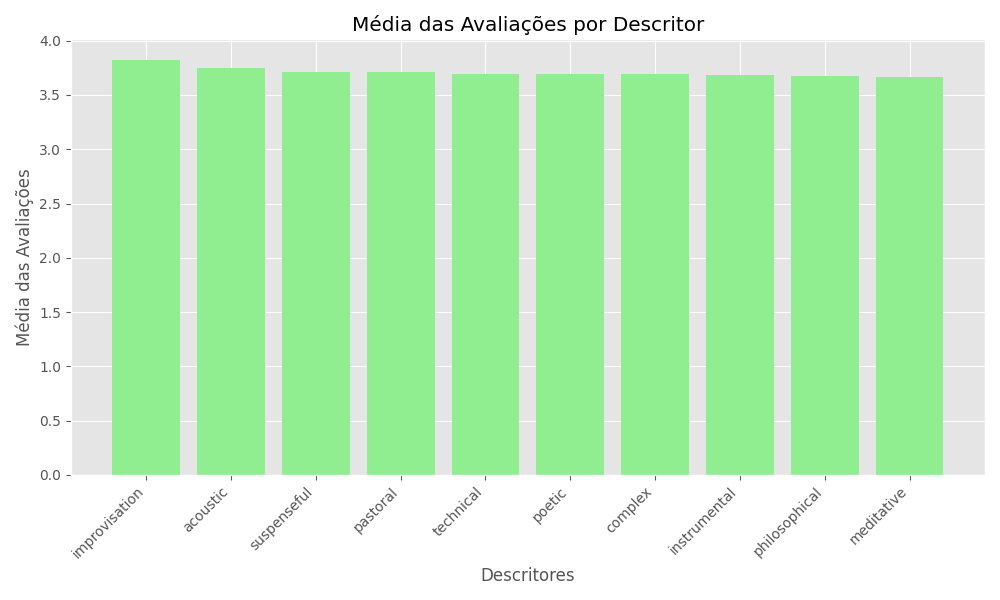
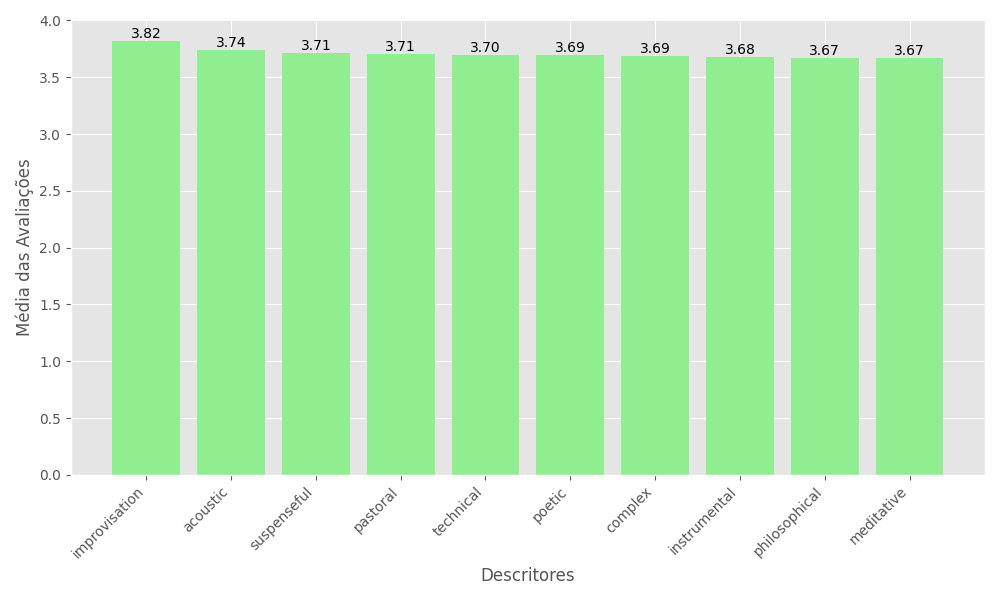
Adicionando números acima das barras nos gráficos de ralações de variáveis

diff --git a/atividade_1/src/variable_relationships.py b/atividade_1/src/variable_relationships.py
@@ -1,6 +1,9 @@
 import pandas as pd
 import matplotlib.pyplot as plt
 import numpy as np
+
+import seaborn as sns
+
 from frequency_tables import sturges_rule
 
 # Carregar o dataset
@@ -40,7 +43,6 @@ def plot_variable_relationships():
     # Gráfico 1: Média das avaliações vs. Número de resenhas
     plt.figure(figsize=(8, 6))
     plt.scatter(data['review_count'], data['avg_rating'], alpha=0.7)
-    plt.title('Média das Avaliações vs. Número de Resenhas')
     plt.xlabel('Número de Resenhas')
     plt.ylabel('Média das Avaliações')
     plt.grid(True)
@@ -52,7 +54,6 @@ def plot_variable_relationships():
     nbins = sturges_rule(len(data))
     grouped_data = group_and_average(data, 'release_date', 'avg_rating', nbins)
     grouped_data.plot(kind='line', x='Intervalo', y='Média', figsize=(10, 6), marker='o')
-    plt.title('Média das Avaliações vs. Data de Lançamento')
     plt.xlabel('Intervalos de Data de Lançamento')
     plt.ylabel('Média das Avaliações')
     plt.xticks(rotation=45, ha='right')  # Rotacionar os rótulos do eixo X
@@ -60,7 +61,7 @@ def plot_variable_relationships():
     plt.tight_layout()
     plt.savefig('outputs/Media_vs_Data.png')
 
-    # Gráfico 3: Gêneros primários vs. Média das avaliações (corrigido)
+    # Gráfico 3: Gêneros primários vs. Média das avaliações
     genre_data = data[['primary_genres', 'avg_rating']].dropna()
 
     # Separar múltiplos gêneros
@@ -86,16 +87,20 @@ def plot_variable_relationships():
 
     # Plotar
     plt.figure(figsize=(10, 6))
-    plt.bar(genre_avg['primary_genres'], genre_avg['avg_rating'], color='skyblue')
-    plt.title('Média das Avaliações por Gênero Primário')
+    bars = plt.bar(genre_avg['primary_genres'], genre_avg['avg_rating'], color='skyblue')
     plt.xlabel('Gêneros Primários')
     plt.ylabel('Média das Avaliações')
     plt.xticks(rotation=45, ha='right')
     plt.tight_layout()
+
+    # Adicionar valores acima das barras
+    for bar in bars:
+        height = bar.get_height()
+        plt.text(bar.get_x() + bar.get_width() / 2, height, f'{height:.2f}', ha='center', va='bottom')
+
     plt.savefig('outputs/Media_por_Genero.png')
 
-
-    # Gráfico 4: Descritores vs. Média das avaliações (corrigido)
+    # Gráfico 4: Descritores vs. Média das avaliações
     descriptor_data = data[['descriptors', 'avg_rating']].dropna()
 
     # Separar múltiplos descritores em listas
@@ -119,54 +124,57 @@ def plot_variable_relationships():
     descriptor_avg = filtered_descriptor_data.groupby('descriptors')['avg_rating'].mean().reset_index()
     descriptor_avg = descriptor_avg.sort_values(by='avg_rating', ascending=False).head(10)
 
-
     # Plotar
     plt.figure(figsize=(10, 6))
-    plt.bar(descriptor_avg['descriptors'], descriptor_avg['avg_rating'], color='lightgreen')
-    plt.title('Média das Avaliações por Descritor')
+    bars = plt.bar(descriptor_avg['descriptors'], descriptor_avg['avg_rating'], color='lightgreen')
     plt.xlabel('Descritores')
     plt.ylabel('Média das Avaliações')
     plt.xticks(rotation=45, ha='right')
     plt.tight_layout()
+
+    # Adicionar valores acima das barras
+    for bar in bars:
+        height = bar.get_height()
+        plt.text(bar.get_x() + bar.get_width() / 2, height, f'{height:.2f}', ha='center', va='bottom')
+
     plt.savefig('outputs/Media_por_Descritor.png')
 
-    # Gráfico 5: Evolução temporal da média por gênero
-    genre_time_data = data[['release_date', 'primary_genres', 'avg_rating']].dropna()
-    genre_time_data['release_date'] = pd.to_datetime(genre_time_data['release_date'])
-    genre_time_data['primary_genres'] = genre_time_data['primary_genres'].str.split(',')
-    genre_time_data = genre_time_data.explode('primary_genres')
-    genre_time_data['primary_genres'] = genre_time_data['primary_genres'].str.strip()
+    # Descritor por data
+    descriptor_time_data = data[['release_date', 'descriptors']].dropna()
+    descriptor_time_data['release_date'] = pd.to_datetime(descriptor_time_data['release_date'])
+    descriptor_time_data['year'] = descriptor_time_data['release_date'].dt.year
 
-    # Filtrar gêneros com pelo menos 100 ocorrências
-    genre_counts = genre_time_data['primary_genres'].value_counts()
-    valid_genres = genre_counts[genre_counts >= 100].index
-    genre_time_data = genre_time_data[genre_time_data['primary_genres'].isin(valid_genres)]
+    # Criar colunas de década
+    descriptor_time_data['decade'] = (descriptor_time_data['year'] // 10) * 10
+    descriptor_time_data['decade'] = descriptor_time_data['decade'].astype(int).astype(str) + 's'
 
-    # Agrupar por intervalo de anos e gênero
-    genre_time_data['year'] = genre_time_data['release_date'].dt.year
-    bins = pd.interval_range(start=1950, end=2025, freq=10, closed='left')
-    genre_time_data['decade'] = pd.cut(genre_time_data['year'], bins=bins)
+    # Explodir os descritores
+    descriptor_time_data['descriptors'] = descriptor_time_data['descriptors'].str.split(',')
+    descriptor_time_data = descriptor_time_data.explode('descriptors')
+    descriptor_time_data['descriptors'] = descriptor_time_data['descriptors'].str.strip()
 
-    grouped = genre_time_data.groupby(['decade', 'primary_genres'])['avg_rating'].mean().reset_index()
+    # Filtrar descritores frequentes
+    descriptor_counts = descriptor_time_data['descriptors'].value_counts()
+    min_count = 100
+    top_descriptors = descriptor_counts[descriptor_counts >= min_count].index
+    descriptor_time_data = descriptor_time_data[descriptor_time_data['descriptors'].isin(top_descriptors)]
 
-    # Pivotar para ter décadas como eixo x e gêneros como colunas
-    pivoted = grouped.pivot(index='decade', columns='primary_genres', values='avg_rating')
+    # Tabela de frequência: descritor vs. década
+    freq_table = pd.crosstab(descriptor_time_data['decade'], descriptor_time_data['descriptors'])
 
-    # Selecionar os gêneros com mais dados (top 5 com menos valores nulos)
-    top_genres = pivoted.count().sort_values(ascending=False).head(5).index
-    pivoted = pivoted[top_genres]
+    # Manter apenas os N descritores mais frequentes
+    top_N = 10
+    top_columns = freq_table.sum().sort_values(ascending=False).head(top_N).index
+    freq_table = freq_table[top_columns]
 
-    # Plotar gráfico
+    # Plotar heatmap
     plt.figure(figsize=(12, 6))
-    pivoted.plot(marker='o')
-    plt.title('Evolução da Média das Avaliações por Gênero ao Longo das Décadas')
+    sns.heatmap(freq_table.T, cmap='YlGnBu', annot=True, fmt='d')
     plt.xlabel('Década')
-    plt.ylabel('Média das Avaliações')
-    plt.xticks(rotation=45)
-    plt.grid(True)
+    plt.ylabel('Descritor')
     plt.tight_layout()
-    plt.legend(title='Gênero')
-    plt.savefig('outputs/Media_por_Genero_Tempo.png')
+    plt.savefig('outputs/Descritores_por_Tempo.png')
+
 
 if __name__ == "__main__":
     plot_variable_relationships()
